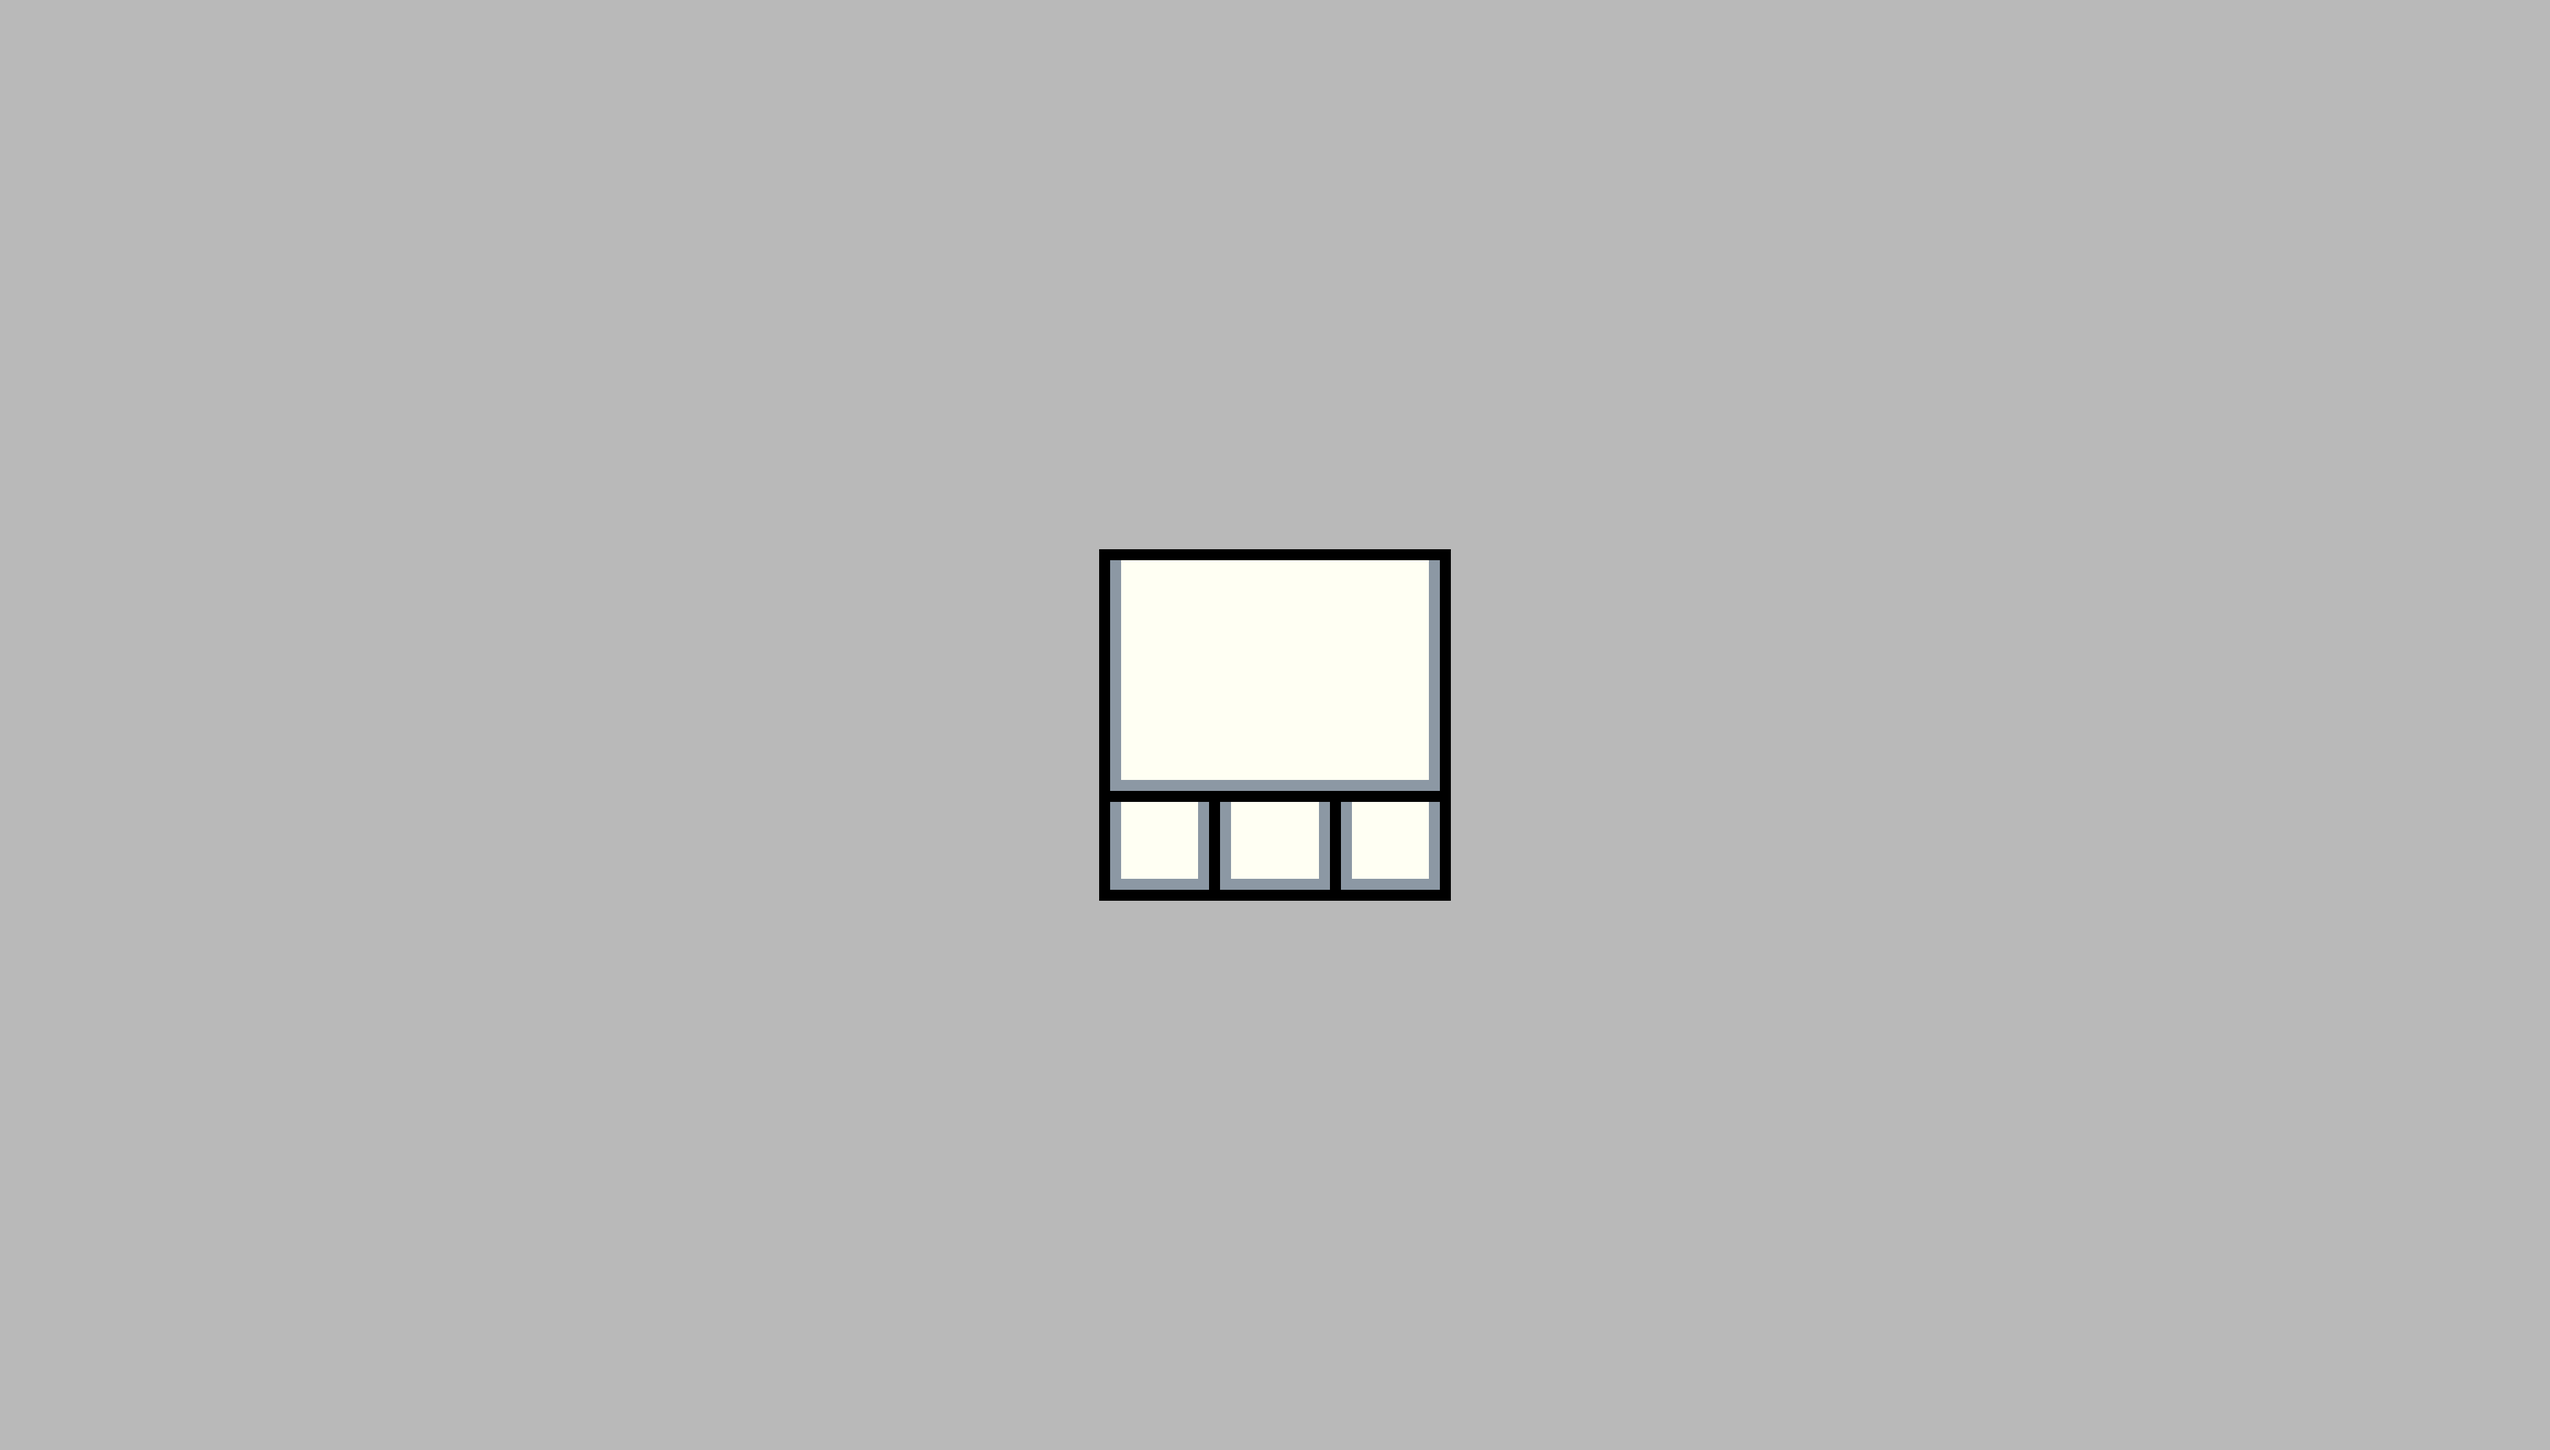
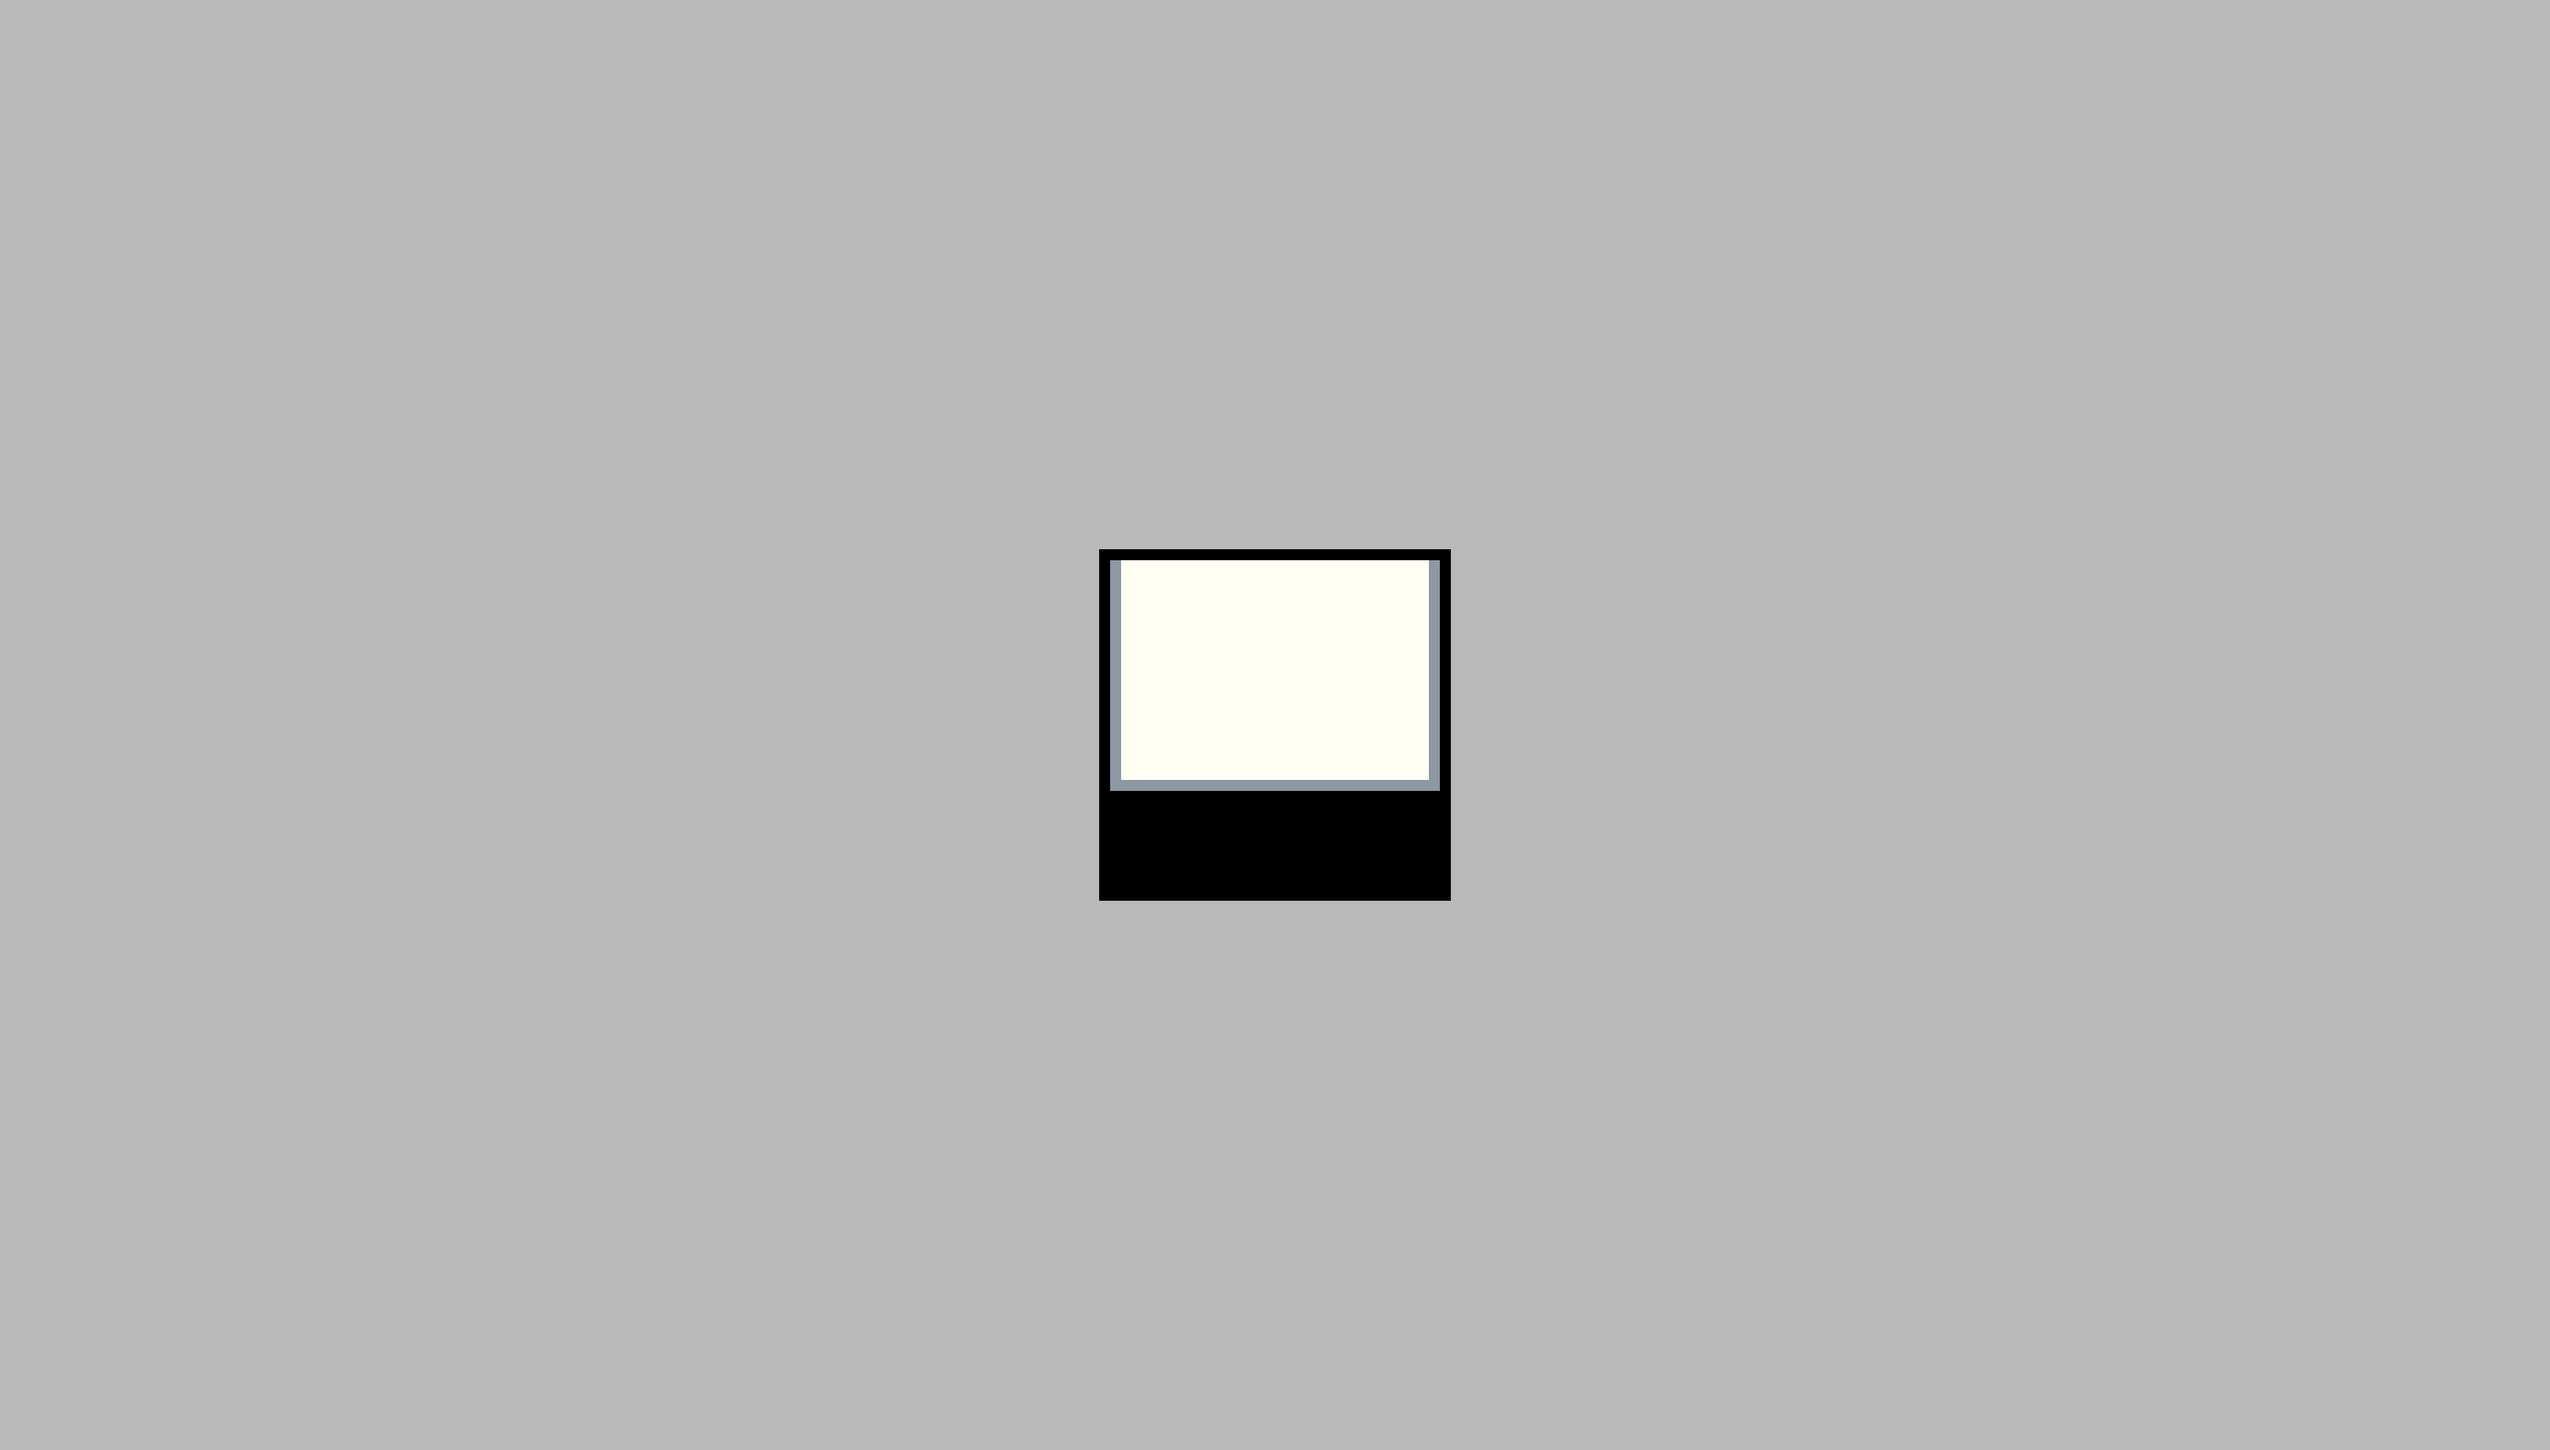
Quiz Done / Dash Done

Changed region(s): [[0.4375, 0.5312, 0.5625, 0.625]]

diff --git a/src/entities/Npc.js b/src/entities/Npc.js
@@ -12,6 +12,7 @@ export default class Npc extends Phaser.Physics.Arcade.Sprite {
     this.npcPlayer = player
 
     this.questionIndex = 0; // Keep track of the current question on quiz
+    this.answerTexts = []
 
     // Track how many Npc is in the scene
     Npc.instanceCount++;
@@ -189,7 +190,7 @@ export default class Npc extends Phaser.Physics.Arcade.Sprite {
     this.quizTitle = this.scene.add.text(centerX, centerY - 200, 'UniQuiz', { font: '24px Arial', fill: '#000' }).setOrigin(0.5).setDepth(2);
 
     // Display the question text, creating or updating it
-    this.quizText = this.scene.add.text(centerX - 170, centerY - 150, questionText, { font: '24px Arial', fill: '#000' }).setOrigin(0.5).setDepth(2);
+    this.quizText = this.scene.add.text(centerX - 220, centerY - 150, questionText, { font: '24px Arial', fill: '#000', wordWrap: {width: centerX - 200} }).setOrigin(0, 0).setDepth(2);
 
     // Close button logic
     this.quizXBtn = this.scene.add.image(centerX + 200, centerY - 200, 'hub_close').setInteractive().setDepth(3).setScale(0.05);
@@ -201,6 +202,9 @@ export default class Npc extends Phaser.Physics.Arcade.Sprite {
         let buttonImage = `quiz_button_${letter}`;
         let answerButton = this.scene.add.image(centerX + (index * 172) - 172, centerY + 170, buttonImage).setScale(3.8).setInteractive().setDepth(2);
         this.answerButtons.push(answerButton)
+
+        // Answers text
+        this.answerTexts.push(this.scene.add.text(centerX - 220, centerY + (70 * index) - 80, answers[index], { font: '24px Arial', fill: '#000', wordWrap: {width: centerX - 200} }).setOrigin(0, 0).setDepth(2))
 
         // Checking if the selected button is the correct answer
         answerButton.on('pointerdown', () => {
@@ -219,7 +223,6 @@ export default class Npc extends Phaser.Physics.Arcade.Sprite {
     this.questionIndex++;
     if (this.questionIndex < this.texts.length) {
         // this.scene.restart(); // Or another way to refresh your question display
-        console.log("NextQuestion");
         this.closeQuiz()
         this.rexonaLogic()
     } else {
@@ -237,6 +240,7 @@ export default class Npc extends Phaser.Physics.Arcade.Sprite {
     if (this.quizText) this.quizText.destroy();
     if (this.quizTitle) this.quizTitle.destroy();
     this.answerButtons.forEach(button => button.destroy());
+    this.answerTexts.forEach(text => text.destroy());
     if (this.quizXBtn) this.quizXBtn.destroy();
 
     // Resetting the flags and references

diff --git a/src/entities/Player.js b/src/entities/Player.js
@@ -38,9 +38,11 @@ export default class Player extends Phaser.Physics.Arcade.Sprite {
     this.jumpSpeed = this.oldPlayer.jumpSpeed || 600;
     this.jumpCount = this.oldPlayer.jumpCount || 0;
     this.consecutiveJumps = this.oldPlayer.consecutiveJumps || 1;
-    this.dashSpeed = this.oldPlayer.dashSpeed || 2000;
+
+    this.dashDistance = this.oldPlayer.dashSpeed || 150;
+    this.dashDuration = this.oldPlayer.dashDuration || 150;
     this.canDash = this.oldPlayer.canDash || false;
-    this.dashDuration = this.oldPlayer.dashDuration || 500;
+
     this.damage = this.oldPlayer.damage || 0;
 
     // Sounds
@@ -130,6 +132,46 @@ export default class Player extends Phaser.Physics.Arcade.Sprite {
       this.jumpSound.play()
     }
 
+    // Dash logic
+    if (isWJustDown && this.canDash) {
+      let dashX = 0;
+      let dashY = 0;
+
+      if (left.isDown) dashX = -1;
+      else if (right.isDown) dashX = 1;
+
+      if (up.isDown) dashY = -1;
+      else if (down.isDown) dashY = 1;
+
+      // Calculate the target position for the dash
+      const targetX = this.x + dashX * this.dashDistance;
+      const targetY = this.y + dashY * this.dashDistance;
+
+      this.scene.tweens.add({
+        targets: this,
+        x: targetX,
+        y: targetY,
+        duration: this.dashDuration,
+        onStart: () => {
+          console.log('start dash');
+          this.body.setAllowGravity(false);
+          this.body.enable = false; // Disable physics body during the dash
+        },
+        onComplete: () => {
+          console.log('complete dash');
+          this.body.setAllowGravity(true);
+          this.body.enable = true; // Re-enable physics body
+        }
+      });
+
+      this.canDash = false;
+    }
+
+    // Reset `canDash` when landing on the ground
+    if (onFloor && !this.canDash && !Phaser.Input.Keyboard.JustDown(this.dashKey)) {
+      this.canDash = true;
+    }
+
     // Animation logic for jumping and falling
     if (!onFloor) {
       this.play("player_jump", true);
@@ -137,8 +179,7 @@ export default class Player extends Phaser.Physics.Arcade.Sprite {
     }
     // Reset jump count and dash availability on landing
     if (onFloor) {
-      this.jumpCount = 0;
-      this.canDash = true;
+      this.jumpCount = 0
     }
   }
 }

diff --git a/src/entities/enemies/purpleSlime.js b/src/entities/enemies/purpleSlime.js
@@ -15,9 +15,6 @@ export default class purpleSlime extends Enemy {
         this.setScale(.6);
         this.body.offset.x = 0
         this.body.offset.y = 0
-
-        console.log(this.body)
-
     }
 
     initEvents() {

diff --git a/src/entities/enemies/greenSlime.js b/src/entities/enemies/greenSlime.js
@@ -15,8 +15,6 @@ export default class greenSlime extends Enemy {
         this.setScale(.6);
         this.body.offset.x = 0
         this.body.offset.y = 0
-
-        console.log(this.body)
     }
 
     initEvents() {
